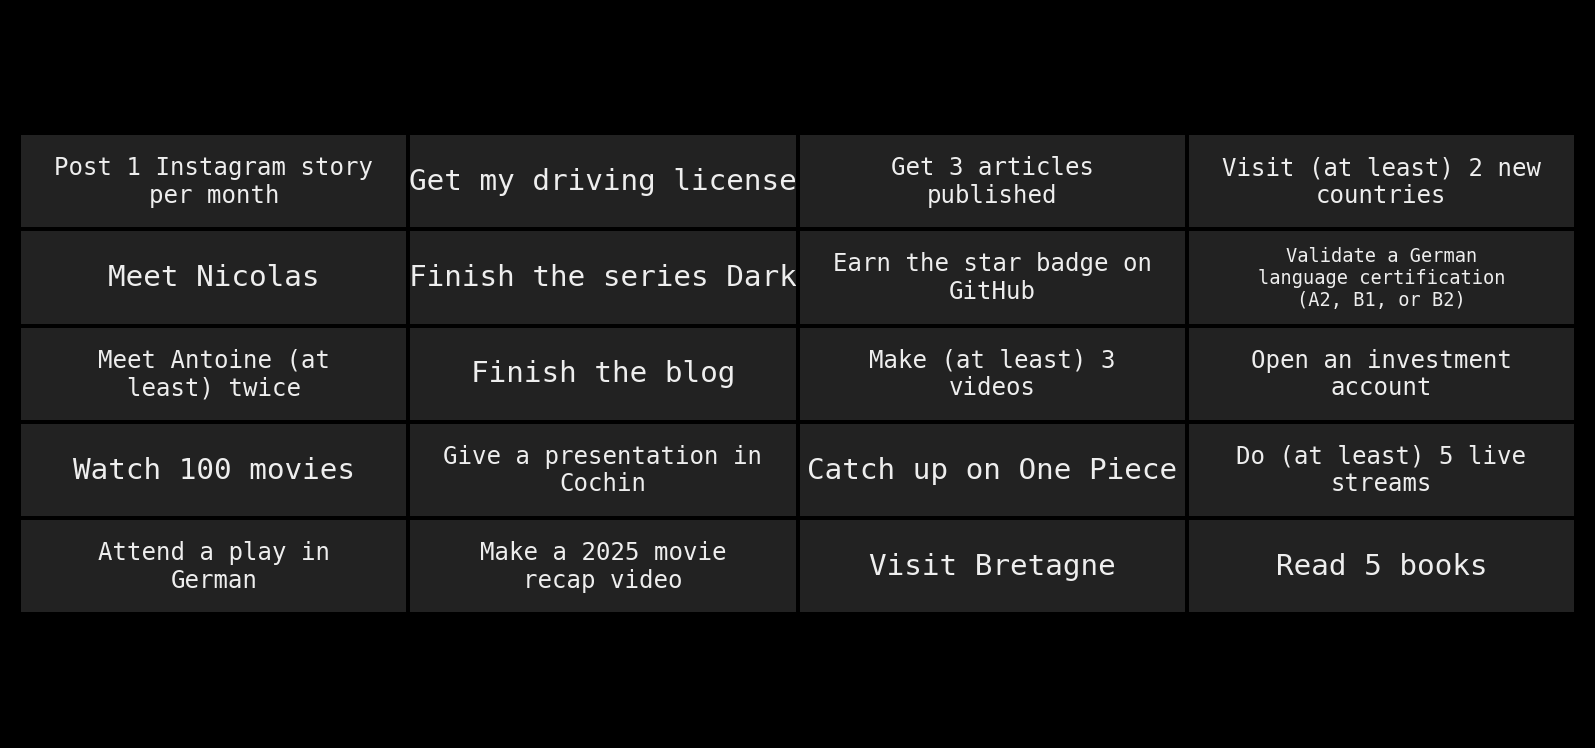
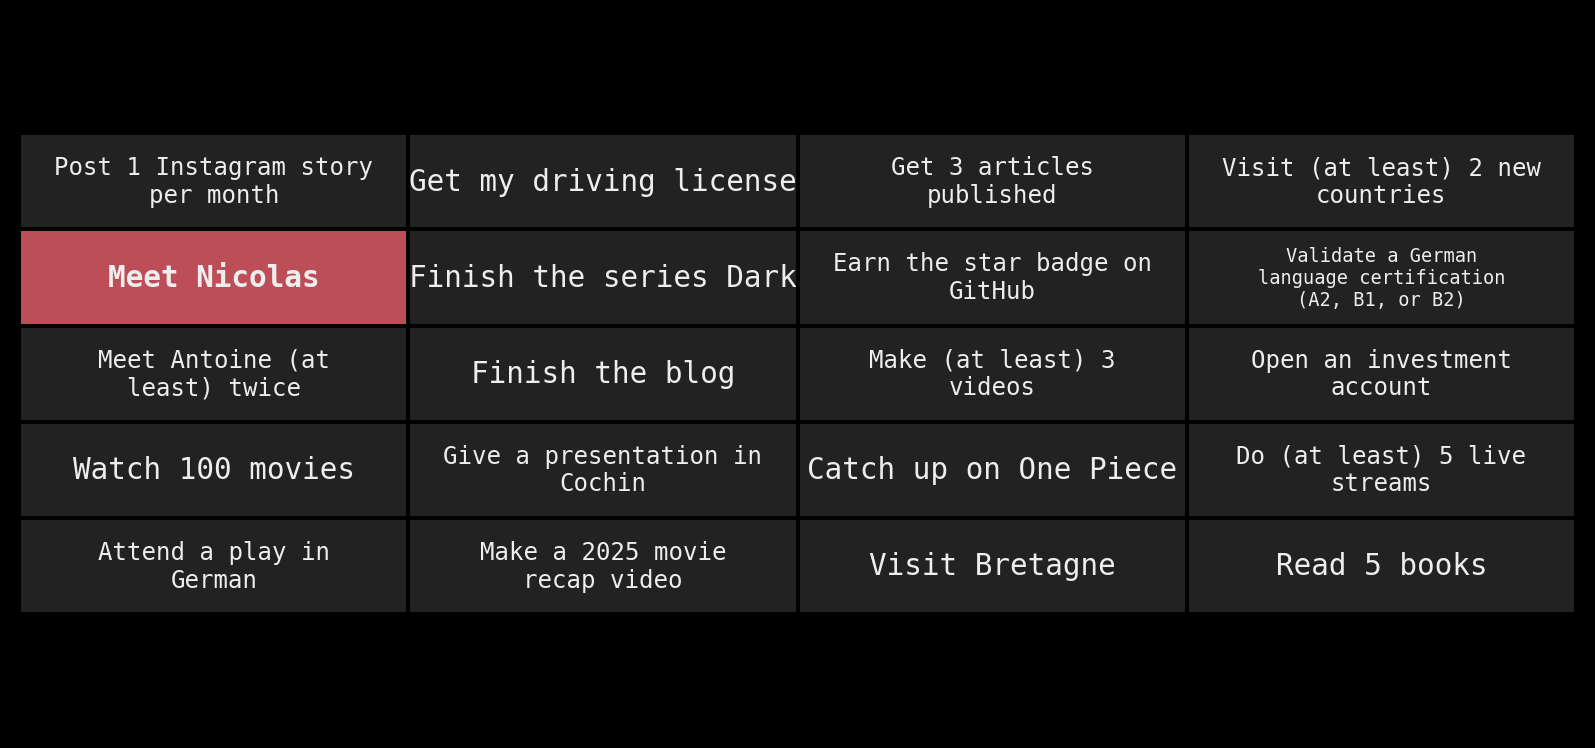
update bingo

diff --git a/docs/projects/posts/260106_bingo.html b/docs/projects/posts/260106_bingo.html
@@ -197,7 +197,7 @@ pre > code.sourceCode > span > a:first-child::before { text-decoration: underlin
 <p>To avoid this problem and not sacrifice my self-esteem once again on the hotel of productivity, I decided instead to make a <strong>Bingo</strong> card of goals I would like to achieve this year. It contains boxes with varying degrees of difficulty, including things I really want to do, others not so much, and some that I have been postponing for far too long now.</p>
 <p>The aim of this bingo card is not necessarily to achieve everything this year, but rather to try to achieve some of the things and complete some of the lines.</p>
 <p>Thus, I have wrote the following python code in order to generate a 5*4 bingo from a <code>txt</code> file.</p>
-<div id="a17ab438" class="cell" data-execution_count="1">
+<div id="58b2e37f" class="cell" data-execution_count="1">
 <div class="code-copy-outer-scaffold"><div class="sourceCode cell-code" id="cb1"><pre class="sourceCode numberSource python number-lines code-with-copy"><code class="sourceCode python"><span id="cb1-1"><a href="#cb1-1"></a><span class="im">import</span> matplotlib.pyplot <span class="im">as</span> plt</span>
 <span id="cb1-2"><a href="#cb1-2"></a><span class="im">from</span> matplotlib.table <span class="im">import</span> Table</span>
 <span id="cb1-3"><a href="#cb1-3"></a><span class="im">import</span> textwrap</span>
@@ -295,7 +295,7 @@ pre > code.sourceCode > span > a:first-child::before { text-decoration: underlin
 <span id="cb1-95"><a href="#cb1-95"></a>fig <span class="op">=</span> generate_bingo(lst)</span>
 <span id="cb1-96"><a href="#cb1-96"></a></span>
 <span id="cb1-97"><a href="#cb1-97"></a><span class="co"># Update</span></span>
-<span id="cb1-98"><a href="#cb1-98"></a>finish <span class="op">=</span> []</span>
+<span id="cb1-98"><a href="#cb1-98"></a>finish <span class="op">=</span> [<span class="st">'Meet Nicolas'</span>]</span>
 <span id="cb1-99"><a href="#cb1-99"></a><span class="cf">if</span> <span class="bu">len</span>(finish) <span class="op">&gt;</span> <span class="dv">0</span>: </span>
 <span id="cb1-100"><a href="#cb1-100"></a>  fig <span class="op">=</span> update_bingo(fig, finish)</span>
 <span id="cb1-101"><a href="#cb1-101"></a></span>

diff --git a/docs/projects/index.html b/docs/projects/index.html
@@ -206,7 +206,7 @@ window.Quarto = {
 
 <div class="quarto-listing quarto-listing-container-default" id="listing-listing">
 <div class="list quarto-listing-default">
-<div class="quarto-post image-right" data-index="0" data-categories="Q29kZSUyQ1B5dGhvbiUyQzIwMjY=" data-listing-date-sort="1798758000000" data-listing-file-modified-sort="1768340887227" data-listing-date-modified-sort="NaN" data-listing-reading-time-sort="3" data-listing-word-count-sort="526">
+<div class="quarto-post image-right" data-index="0" data-categories="Q29kZSUyQ1B5dGhvbiUyQzIwMjY=" data-listing-date-sort="1798758000000" data-listing-file-modified-sort="1769455348240" data-listing-date-modified-sort="NaN" data-listing-reading-time-sort="3" data-listing-word-count-sort="527">
 <div class="thumbnail"><a href="../projects/posts/260106_bingo.html" class="no-external">
 
 <p class="card-img-top"><img src="posts/260106_bingo_files/figure-html/cell-2-output-1.png"  class="thumbnail-image card-img"/></p>
